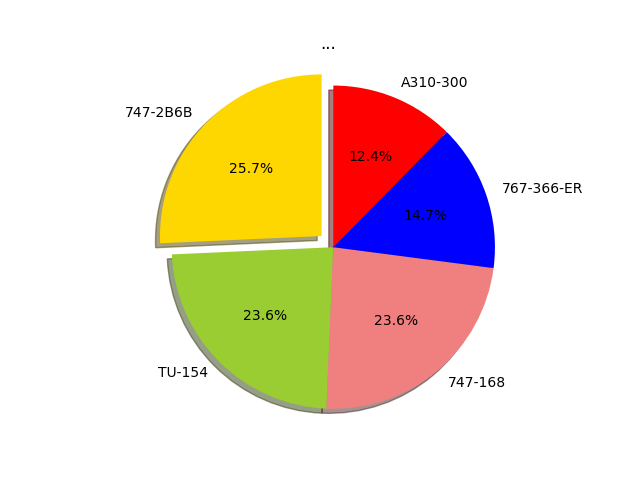
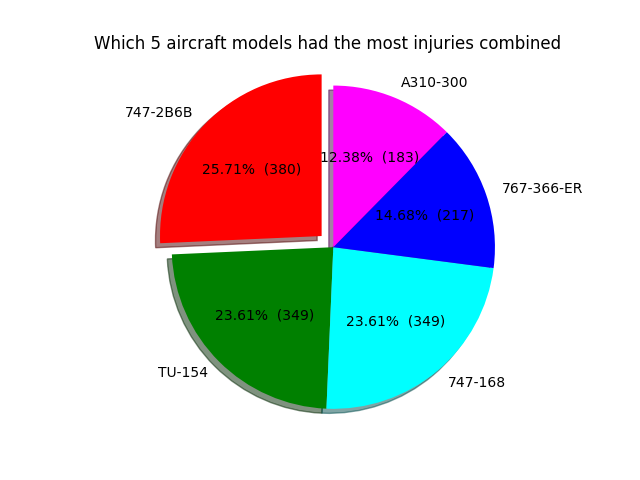
opg 3 tal done

Changed region(s): [[0.2188, 0.1562, 0.7812, 0.875], [0.1562, 0.0625, 0.875, 0.125]]

diff --git a/exercises/aviationEx3.py b/exercises/aviationEx3.py
@@ -3,6 +3,7 @@ import os
 from urllib.parse import urlparse
 import matplotlib.pyplot as plt
 import heapq
+import numpy as np
 
 
 
@@ -41,16 +42,39 @@ def dict_keys(d):
 def dict_values(d):
     return list(d.values())
 
+
+def make_autopct(values):
+    def my_autopct(pct):
+        total = sum(values)
+        val = int(round(pct*total/100.0))
+        return '{p:.2f}%  ({v:d})'.format(p=pct,v=val)
+    return my_autopct
+
 def plot(t5_k, t5_v):
     colors = ['red', 'green', 'cyan', 'blue', 'magenta']
     explode = (0.1, 0.0, 0.0, 0.0, 0.0) #explode first slice
     plt.pie(t5_v, explode=explode, labels=t5_k, colors=colors,
-            autopct='%1.1f%%', shadow=True, startangle=90)
+            autopct=make_autopct(t5_v), shadow=True, startangle=90)
 
     plt.axis('equal')
     plt.title('Which 5 aircraft models had the most injuries combined')
     plt.savefig('Question3Plot.png')
     plt.show()
+
+def injuries():
+    fatal = dataframe[:, 23]
+    serious = dataframe[:, 24]
+    minor = dataframe[:, 25]
+
+    fatal.sort()
+
+    print("max fatal injuries: ")
+    print(max(fatal))
+    print("max serious injuries")
+    print(max(serious))
+    print("max minor injuries: ")
+    print(max(minor))
+
 
 
 
